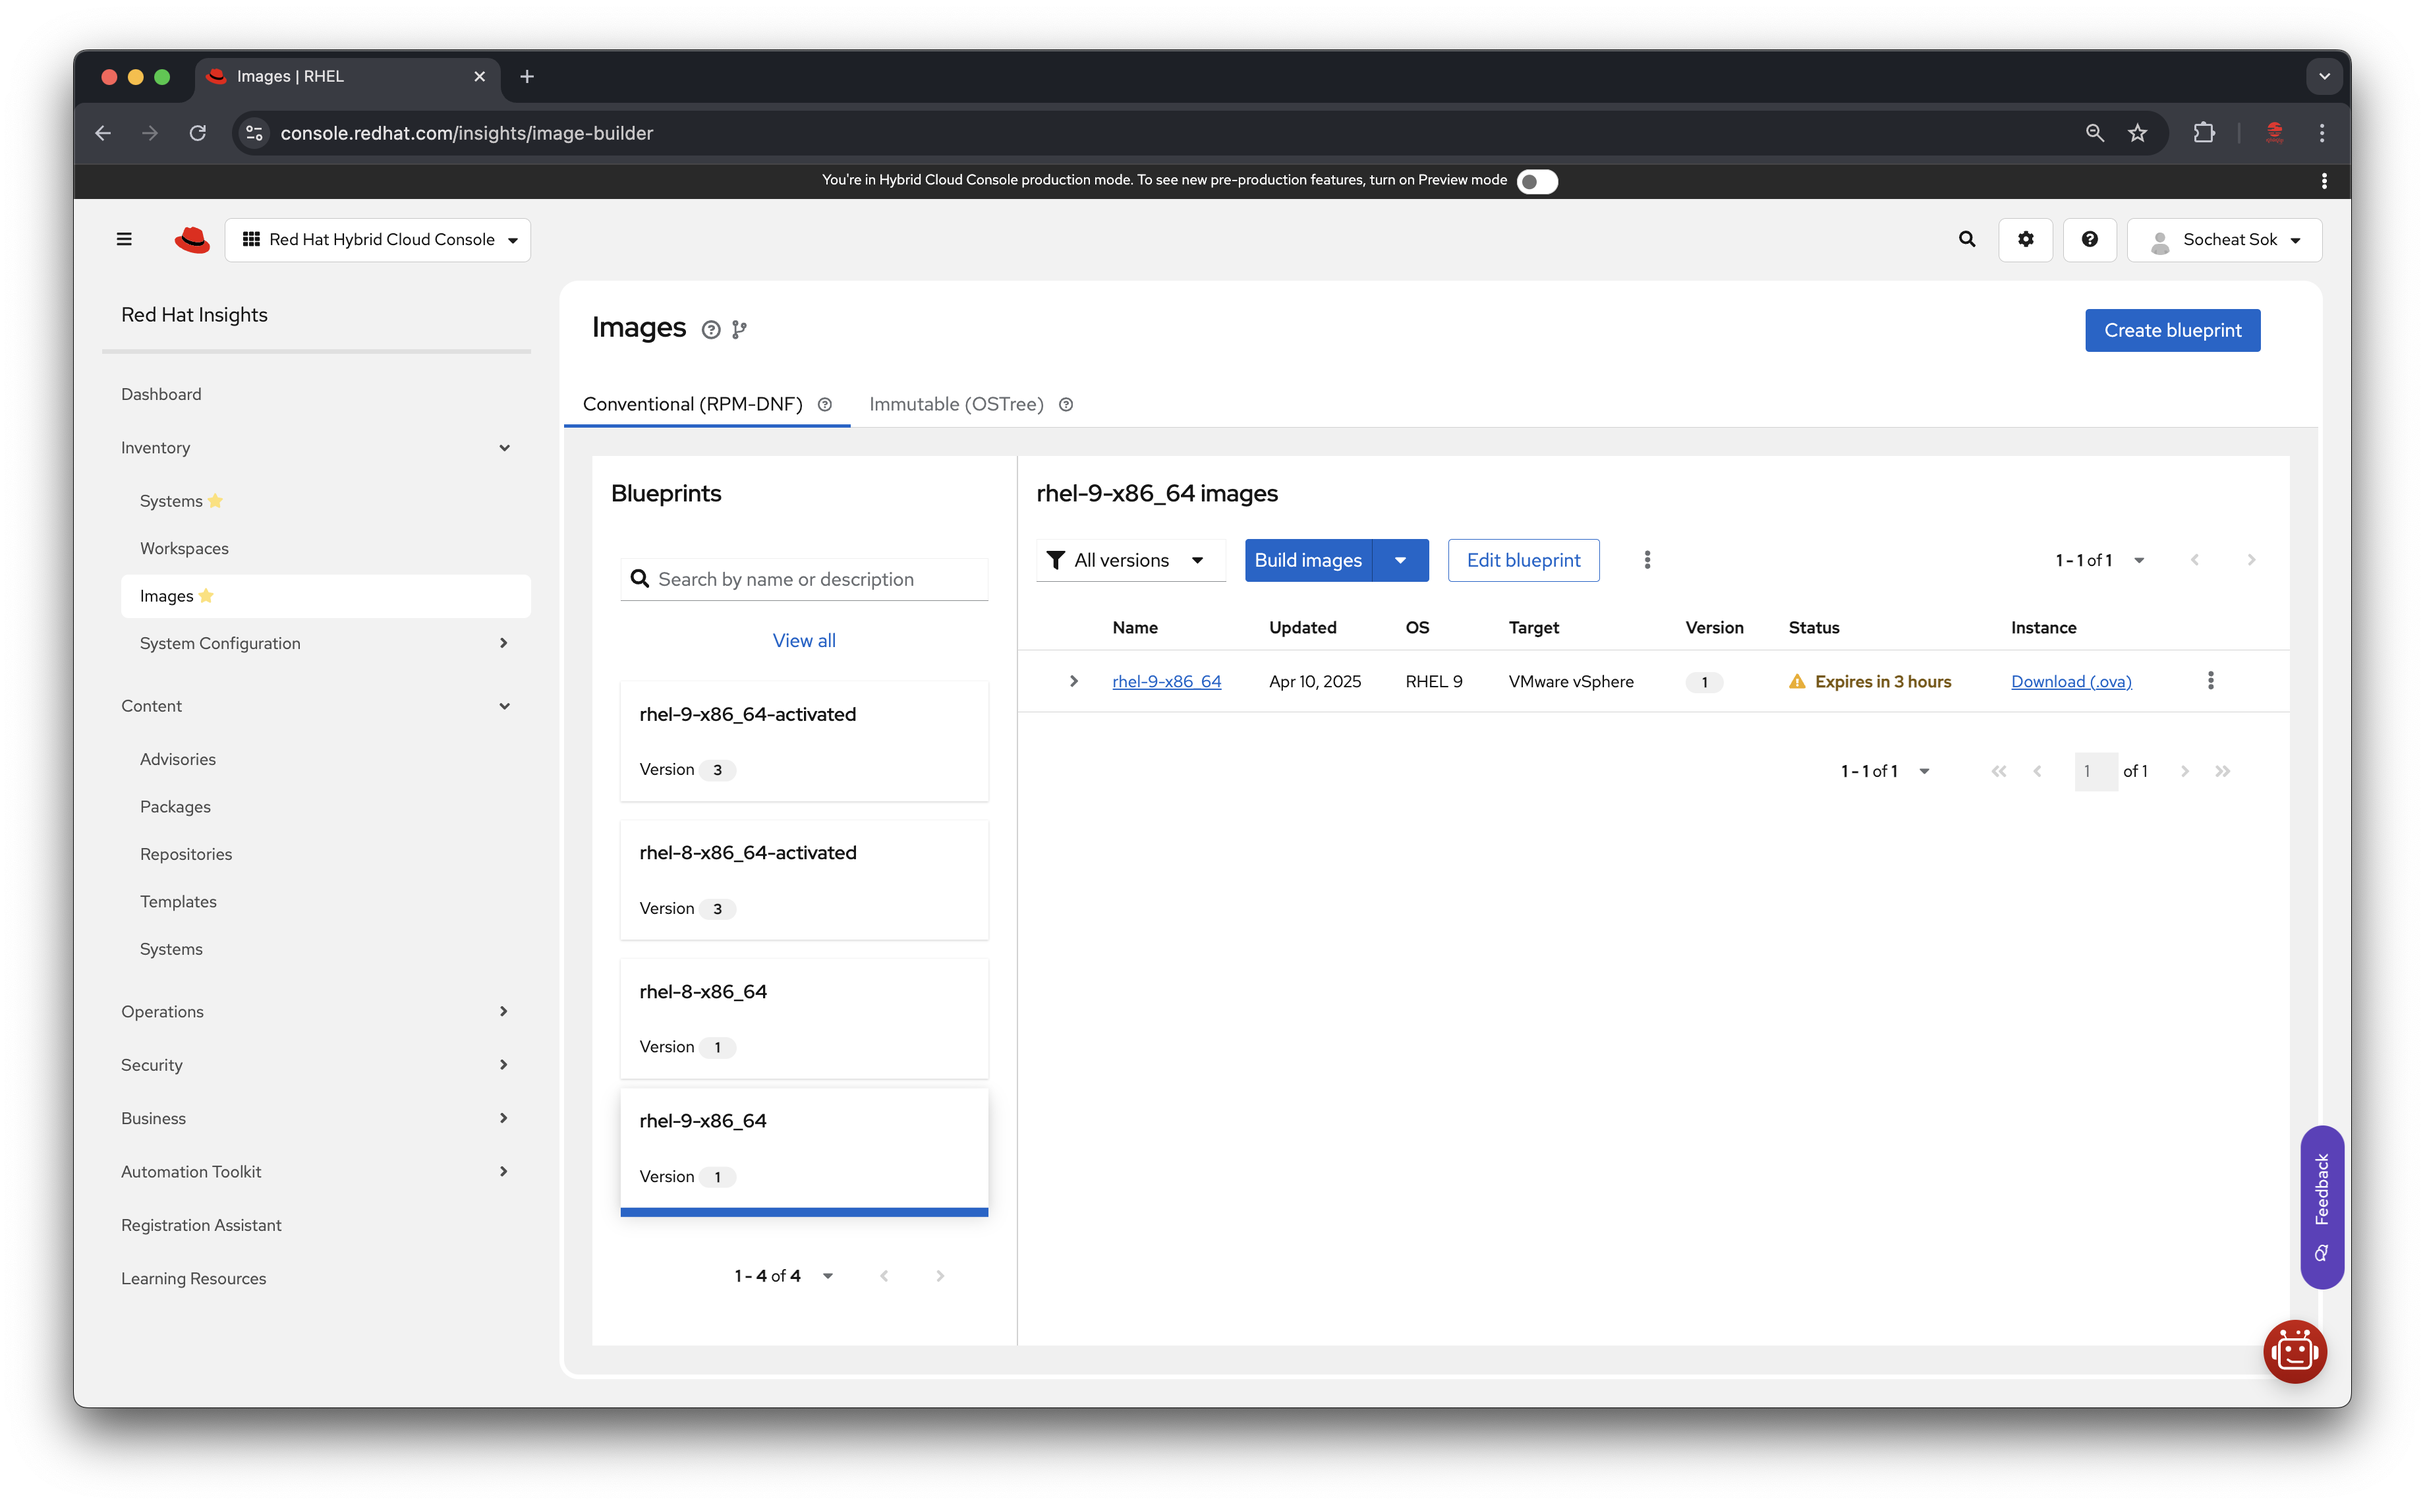
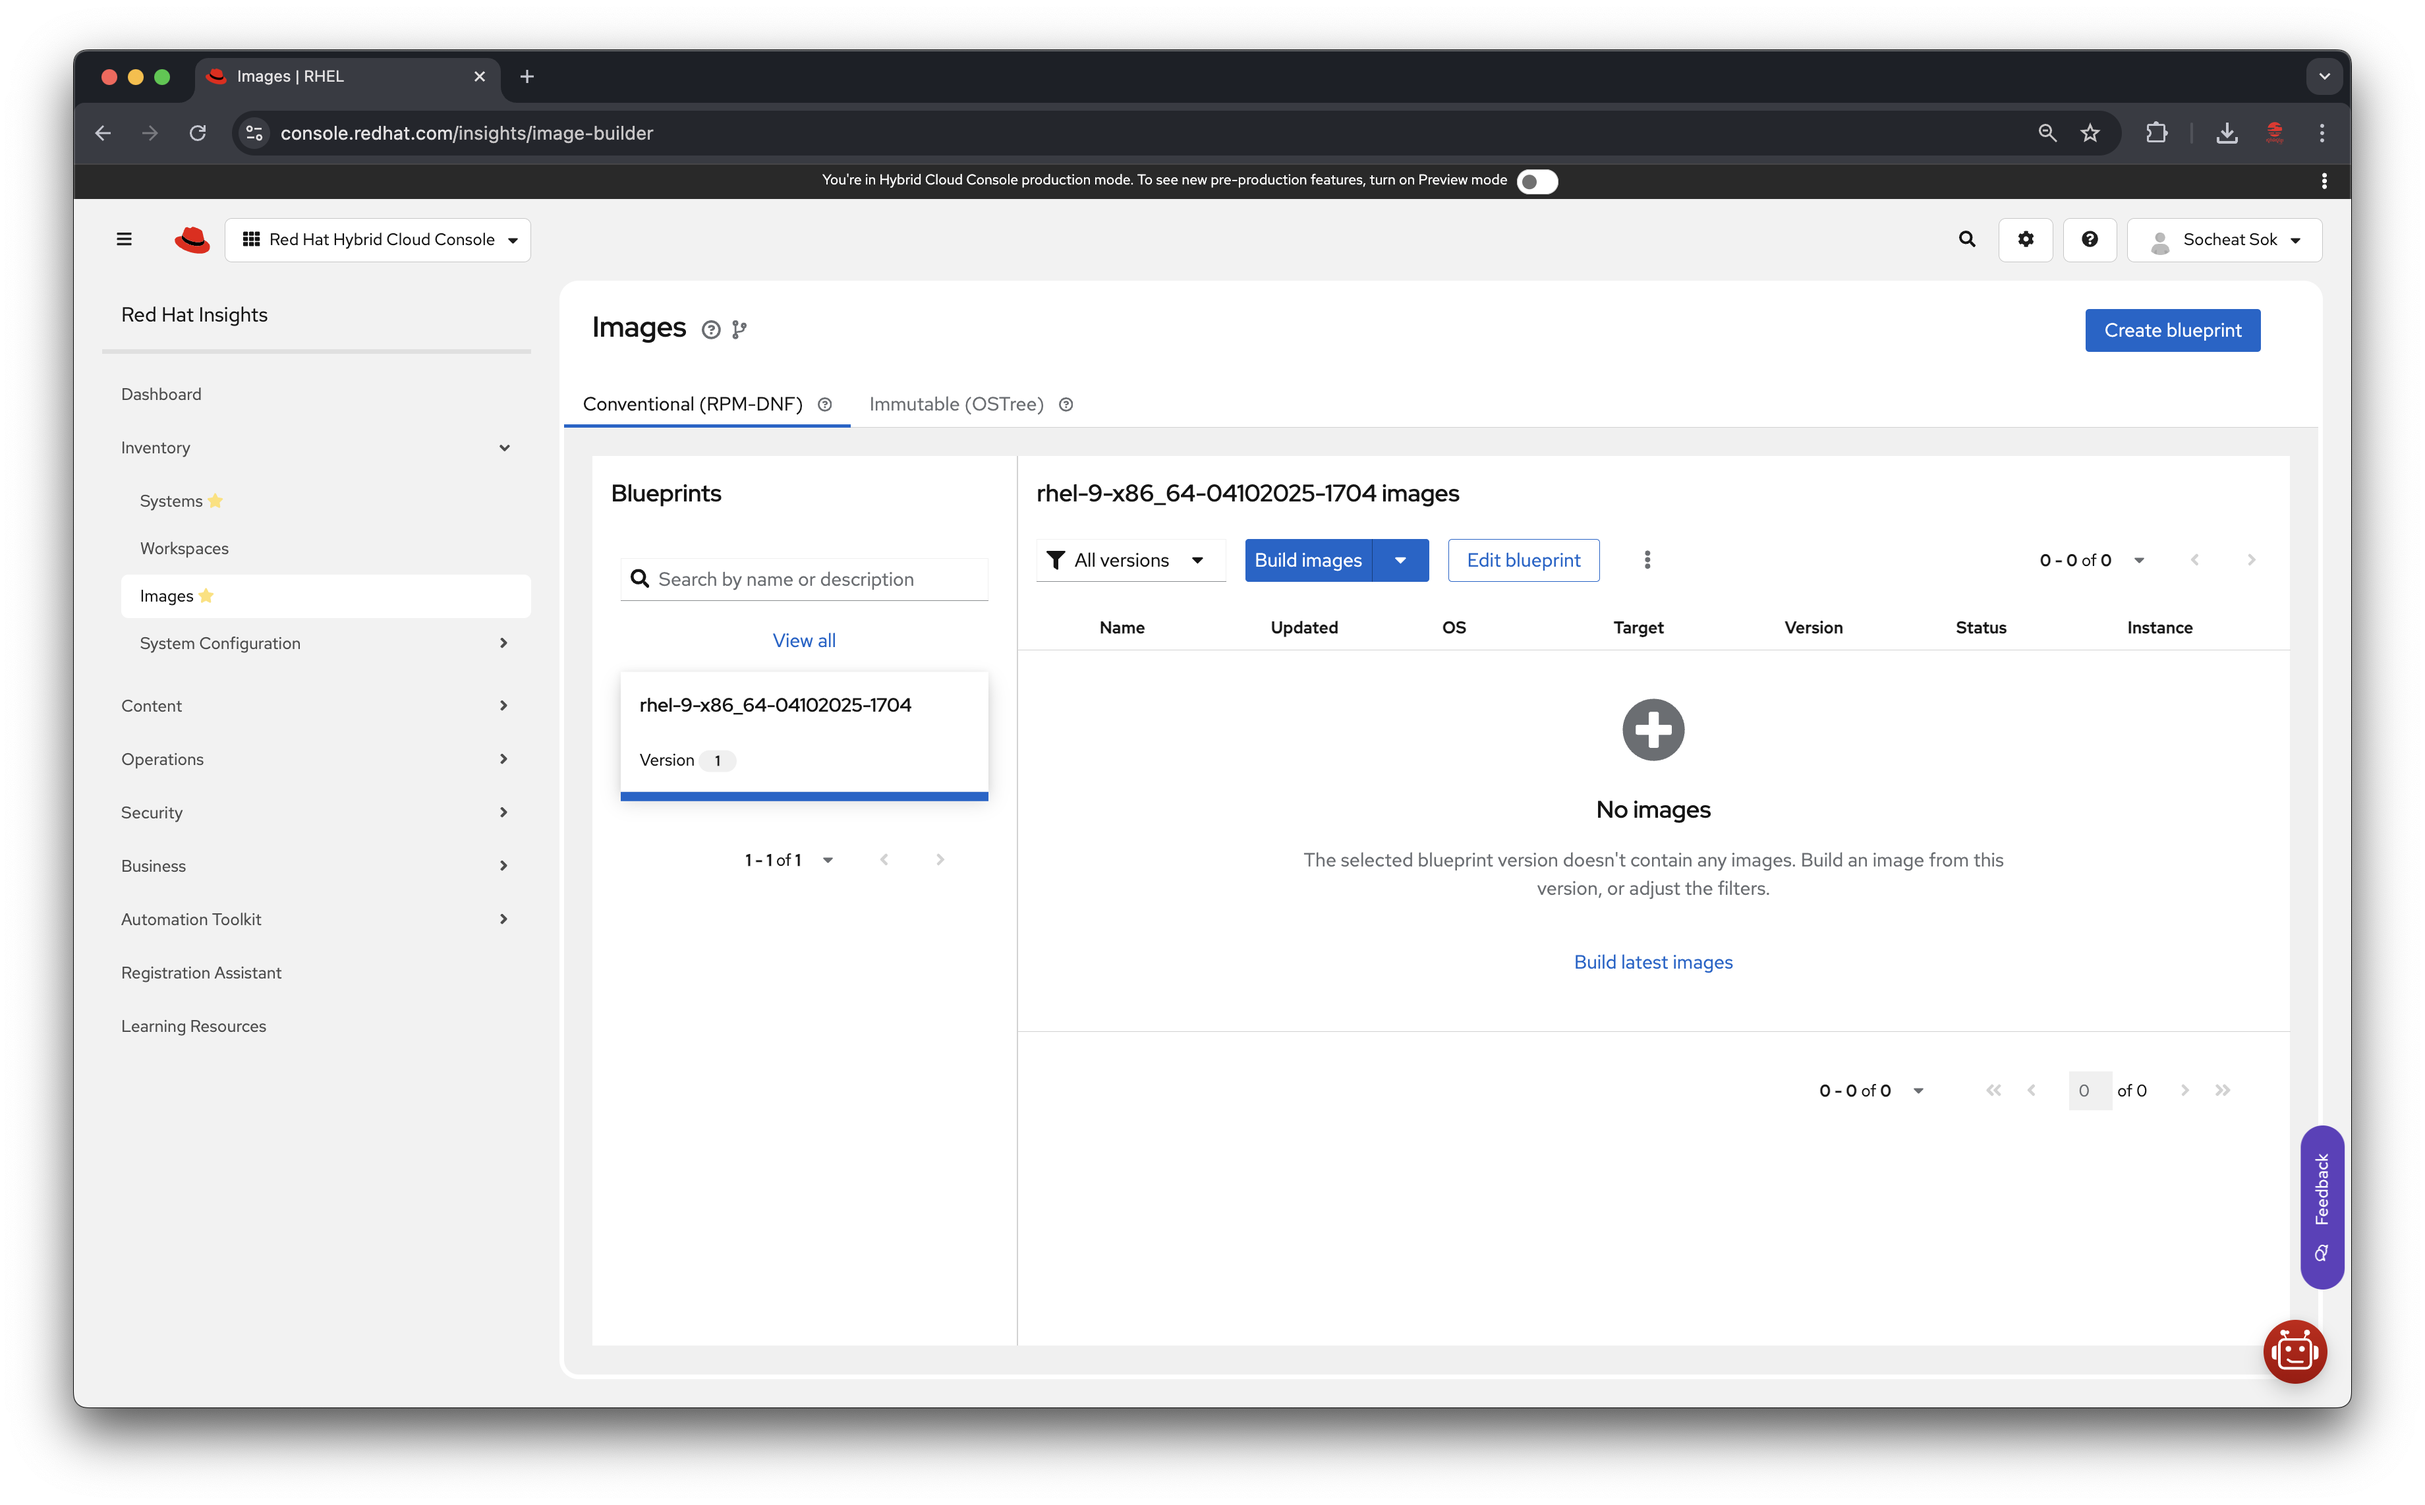
Update RHEL docs

diff --git a/rhel/README.md b/rhel/README.md
@@ -13,21 +13,22 @@ To obtain the latest RHEL Cloud Images, you need the following:
 - [Red Hat Enterprise Linux (RHEL)](#red-hat-enterprise-linux-rhel)
   - [Navigating the Red Hat Cloud Console](#navigating-the-red-hat-cloud-console)
   - [Using the Image Builder tool](#using-the-image-builder-tool)
-  - [1. Create a blueprint](#1-create-a-blueprint)
-    - [Step 1: Image output](#step-1-image-output)
-    - [Step 2: Optional steps](#step-2-optional-steps)
-      - [1. Register your system to Red Hat](#1-register-your-system-to-red-hat)
-      - [2. OpenSCAP](#2-openscap)
-      - [3. File system configuration](#3-file-system-configuration)
-      - [4. Repository snapshot](#4-repository-snapshot)
-      - [5. Custom repositories](#5-custom-repositories)
-      - [6. Additional packages](#6-additional-packages)
-      - [7. Timezone](#7-timezone)
-      - [8. Locale](#8-locale)
-      - [9. First boot script configuration](#9-first-boot-script-configuration)
-  - [2. Details](#2-details)
-  - [3. Review](#3-review)
-  - [4. Download images](#4-download-images)
+    - [1. Create a blueprint](#1-create-a-blueprint)
+      - [Step 1: Image output](#step-1-image-output)
+      - [Step 2: Optional steps](#step-2-optional-steps)
+        - [1. Register your system to Red Hat](#1-register-your-system-to-red-hat)
+        - [2. OpenSCAP](#2-openscap)
+        - [3. File system configuration](#3-file-system-configuration)
+        - [4. Repository snapshot](#4-repository-snapshot)
+        - [5. Custom repositories](#5-custom-repositories)
+        - [6. Additional packages](#6-additional-packages)
+        - [7. Timezone](#7-timezone)
+        - [8. Locale](#8-locale)
+        - [9. First boot script configuration](#9-first-boot-script-configuration)
+      - [Step 2. Details](#step-2-details)
+      - [Step 3. Review](#step-3-review)
+  - [2. Building images](#2-building-images)
+  - [3. Managing images](#3-managing-images)
 
 ## Navigating the Red Hat Cloud Console
 
@@ -51,14 +52,14 @@ Here are necessary steps to create an image:
 3. Download images to your local machine or upload them to your cloud provider
 4. Deploy the images to your desired environment
 
-## 1. Create a blueprint
+### 1. Create a blueprint
 
 In the "**Image Builder**" tool, you can create a blueprint for your image. A blueprint is a set of instructions that defines how the image should be built. You can use the provided blueprints or create your own.
 
 Click on the "**Create blueprint**" button at the top right corner of the page.
 ![rhel-image-builder-1.png](./assets/rhel-image-builder-1.png)
 
-### Step 1: Image output
+#### Step 1: Image output
 
 In the "**Image output**" section, select the image type you want to create. In this example, we will create a **VMWare vSphere** image.
 
@@ -71,7 +72,7 @@ In the "**Image output**" section, select the image type you want to create. In 
 Check the "**VMWare vSphere**" option and choose the "**Open virtualization format (.ova)**".
 ![rhel-image-builder-3.png](./assets/rhel-image-builder-3.png)
 
-### Step 2: Optional steps
+#### Step 2: Optional steps
 
 > [!NOTE]
 > You can skip this step by clicking on the "Review and finish" botton at the bottom of the page.
@@ -87,7 +88,7 @@ The optional steps includes:
 8. Locale
 9. First boot script configuration
 
-#### 1. Register your system to Red Hat
+##### 1. Register your system to Red Hat
 
 You can either automatically register your systems with **Red Hat** to enhance security and track your spending or choose to register your system during initial boot.
 
@@ -95,13 +96,13 @@ The "**Activation key**" will be automatically generated for you. You can use th
 
 ![rhel-image-builder-4.png](./assets/rhel-image-builder-4.png)
 
-#### 2. OpenSCAP
+##### 2. OpenSCAP
 
 OpenSCAP enables you to automatically monitor the adherence of your registered RHEL systems to a selected regulatory compliance profile.
 
 ![rhel-image-builder-5.png](./assets/rhel-image-builder-5.png)
 
-#### 3. File system configuration
+##### 3. File system configuration
 
 Define the partitioning of the image
 
@@ -114,7 +115,7 @@ Create partitions for your image by defining mount points and minimum sizes. Ima
 ![rhel-image-builder-6.png](./assets/rhel-image-builder-6.png)
 
 
-#### 4. Repository snapshot
+##### 4. Repository snapshot
 Control the consistency of the packages in the repository used to build the image.
 
 By default, Image Builder will automatically use the newest state of repositories when building this image.
@@ -122,7 +123,7 @@ By default, Image Builder will automatically use the newest state of repositorie
 ![rhel-image-builder-7.png](./assets/rhel-image-builder-7.png)
 
 
-#### 5. Custom repositories
+##### 5. Custom repositories
 
 Select the linked custom repositories from which you can add packages to the image.
 
@@ -134,25 +135,25 @@ Select the linked custom repositories from which you can add packages to the ima
 ![rhel-image-builder-8.png](./assets/rhel-image-builder-8.png)
 
 
-#### 6. Additional packages
+##### 6. Additional packages
 
 Blueprints created with Images include all required packages.
 
 ![rhel-image-builder-9.png](./assets/rhel-image-builder-9.png)
 
-#### 7. Timezone
+##### 7. Timezone
 
 Select a timezone and NTP servers for the image.
 
 ![rhel-image-builder-10.png](./assets/rhel-image-builder-10.png)
 
-#### 8. Locale
+##### 8. Locale
 
 Select language and keyboard layout for the image.
 
 ![rhel-image-builder-11.png](./assets/rhel-image-builder-11.png)
 
-#### 9. First boot script configuration
+##### 9. First boot script configuration
 Configure the image with a custom script that will execute on its first boot.
 
 > ![Important]
@@ -162,13 +163,13 @@ Configure the image with a custom script that will execute on its first boot.
 
 ![rhel-image-builder-12.png](./assets/rhel-image-builder-12.png)
 
-## 2. Details
+#### Step 2. Details
 
 In the "**Details**" section, you can provide a name and description for your image.
 
 ![rhel-image-builder-13.png](./assets/rhel-image-builder-13.png)
 
-## 3. Review
+#### Step 3. Review
 
 The "**Review**" section allows you to review the settings you have selected for your image. You can go back and make changes if needed.
 
@@ -180,14 +181,23 @@ Once you are satisfied with your selections, click on the "**Create blueprint**"
 
 Alternatively, you can click on the "**Create blueprint and build image(s)**" button to create the blueprint and start building the image immediately.
 
-![rhel-image-builder-16.png](./assets/rhel-image-builder-15.png)
+![rhel-image-builder-16.png](./assets/rhel-image-builder-16.png)
 
+## 2. Building images
 
-## 4. Download images
+Once you have created a blueprint, you can build images based on that blueprint.
 
-Once the image is built, you can download it to your local machine.
+To build an image, select the blueprint you want to use and click on the "**Build image**" button at the top right corner of the page.
 
-![rhel-image-builder-17.png](./assets/rhel-image-builder-16.png)
+**Example**: `rhel-9-x86_64-04102025-1704` blueprint
+
+![rhel-image-builder-17.png](./assets/rhel-image-builder-17.png)
+
+## 3. Managing images
+
+You can manage your images in the "**Image Builder**" tool. You can view the status of your images, download them, or upload them to your cloud provider.
+
+![rhel-image-builder-18.png](./assets/rhel-image-builder-18.png)
 
 <!-- Links -->
 [Activation Keys page]: https://console.redhat.com/insights/connector/activation-keys
